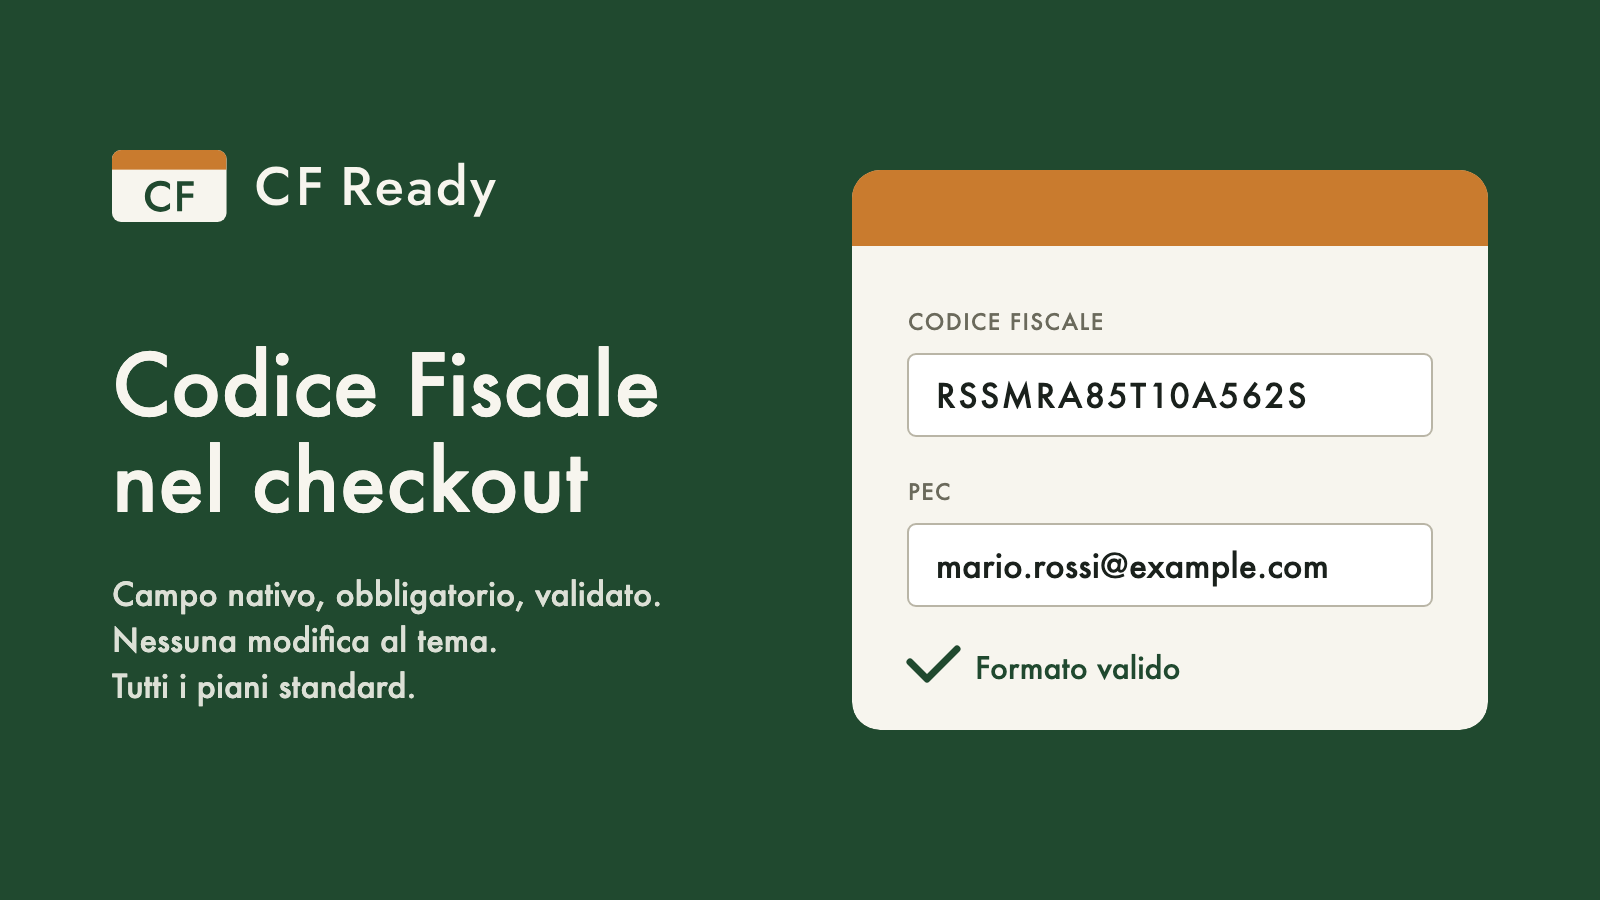
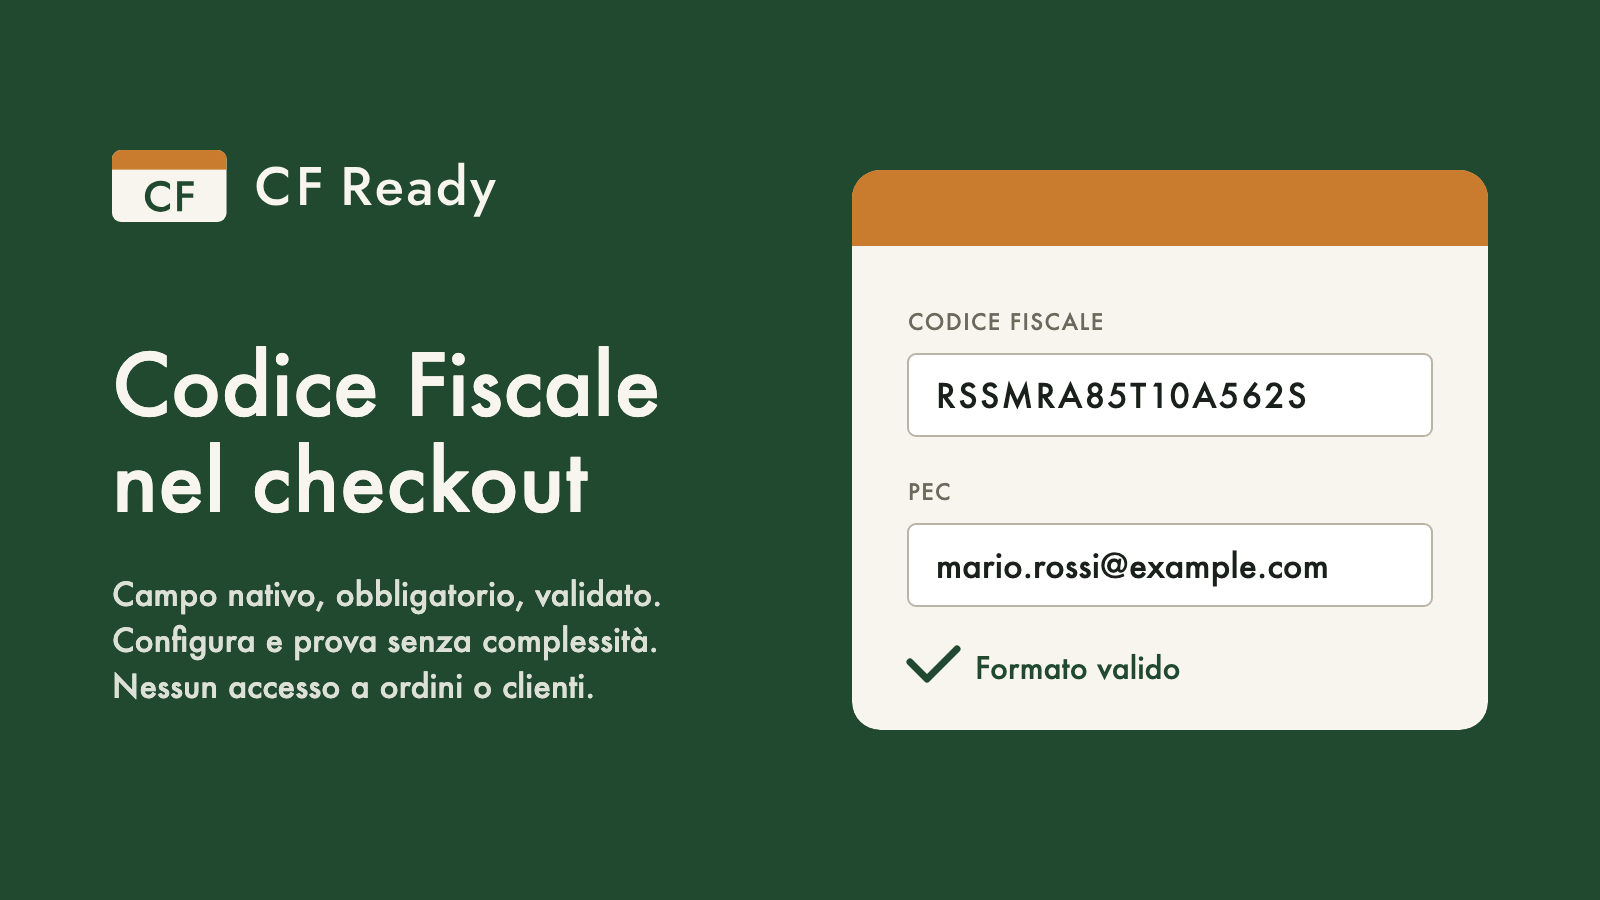
docs(listing): improve Italian and English listings (#374)

Changed region(s): [[0.0625, 0.6844, 0.4062, 0.7778]]

diff --git a/docs/listing/screenshots.md b/docs/listing/screenshots.md
@@ -5,7 +5,9 @@ del [brand](../brand/brand-foundation.md) e da §24.5 del
 [Master Plan](../plans/2026-07-28-CF-Ready-Master-Plan.md): qui non si
 ridiscutono, si applicano.
 
-**Chi li produce:** Codex, dal dev store `cf-ready-dev.myshopify.com`.
+**Chi li produce:** Codex, esclusivamente dall'app installata sul dev store
+`cf-ready-dev.myshopify.com`. Non si usano schermate di checkout o storefront,
+né del dev store né di altri negozi.
 La serie pubblicata in M9 è unica, con Admin e didascalie in italiano, e viene
 riutilizzata nelle listing italiana e inglese. Nella listing inglese gli alt
 text sono localizzati: è la scelta finale dell'owner del 23 agosto 2026. Una
@@ -18,8 +20,8 @@ dentro la stessa serie.
   `--cf-color-border-subtle`, ombra `--cf-shadow-frame` appena percettibile.
   Nessuna finestra di browser disegnata, nessuna barra del Mac, nessun mockup di
   laptop, nessuna prospettiva.
-- **Sfondo:** un solo colore pieno per tutta la serie. Panna per la maggior
-  parte, Verde bottiglia per **uno o due** screenshot chiave — qui: il 2 e il 5.
+- **Sfondo:** un solo colore pieno per ogni immagine. Panna per la maggior
+  parte, Verde bottiglia per **uno o due** screenshot chiave — qui: il 1 e il 2.
 - **Didascalia:** una frase, stessa posizione e stesso stile in tutti.
 - **Accento arancio:** al massimo un elemento per screenshot, e solo se indica
   davvero qualcosa. Mai unico veicolo dell'informazione: accompagna sempre la
@@ -28,8 +30,11 @@ dentro la stessa serie.
   cancellati, niente stati inventati. Cattura a 2× e ridimensionamento pari; se
   a dimensione di listing il testo non si legge, **ritaglia** l'area rilevante
   invece di rimpicciolire tutta la schermata.
-- **Stessa larghezza di cattura, stesso zoom, stesso tema dell'Admin, stessi
-  dati di esempio** in tutta la serie.
+- **Nessun testo troncato:** il ritaglio termina tra blocchi completi; non lascia
+  a metà frasi, etichette, campi o messaggi di errore.
+- **Stesso zoom, stesso tema dell'Admin, stessi dati di esempio** in tutta la
+  serie. La larghezza può aumentare solo quanto serve a chiudere interamente un
+  blocco di testo prima del ritaglio.
 - **Nessun marchio Shopify** dentro l'immagine, e nessun dato reale: usa i
   valori sintetici della [reviewer instructions §4](reviewer-instructions.md).
 
@@ -37,16 +42,15 @@ dentro la stessa serie.
 
 | # | Schermata | Stato da mostrare | Sfondo |
 | --- | --- | --- | --- |
-| 1 | Regole | Codice Fiscale su **Obbligatorio**, PEC su **Facoltativo**: si vede che le due regole sono indipendenti e che le modalità sono tre | Panna |
-| 2 | Home | Validation **attiva**, con lo stato commerciale visibile | Verde bottiglia |
-| 3 | Messaggi | I testi mostrati al cliente, con il selettore di lingua in vista | Panna |
-| 4 | Onboarding | La procedura guidata a metà percorso: mostra quanto poco c'è da configurare | Panna |
-| 5 | Checkout | Il campo Codice Fiscale con l'errore di validazione, **ritagliato** all'area del campo e del messaggio | Verde bottiglia |
+| 1 | Simulatore | Il campo Codice Fiscale con l'errore formale e lo stato **Checkout bloccato**, ritagliato all'anteprima interattiva della 1.1 | Verde bottiglia |
+| 2 | Regole | Codice Fiscale **obbligatorio** e PEC **facoltativa**, inquadrati sulle due schede indipendenti | Verde bottiglia |
+| 3 | Messaggi | Testi in italiano e inglese con la nuova anteprima affiancata della 1.1 | Panna |
+| 4 | Home | Controllo **attivo**, con stato delle regole, piano e accesso alla guida visibili | Panna |
+| 5 | Guida | FAQ e azioni di assistenza con diagnostica tecnica copiabile, in due ritagli affiancati e completi | Panna |
 
-Sul numero 5: è il checkout reale di Shopify, non una ricostruzione — fingere
-una UI di checkout diversa è vietato. Il ritaglio serve a due cose insieme:
-rendere leggibile il messaggio a dimensione di listing ed evitare che entrino
-nell'immagine marchi Shopify.
+Sul numero 1: è il simulatore reale incluso nell'app, non un checkout né una
+ricostruzione grafica. Il ritaglio rende leggibili stato e messaggio a dimensione
+di listing ed evita che entrino nell'immagine elementi dell'Admin Shopify.
 
 ## Didascalie
 
@@ -55,11 +59,11 @@ descrive ogni immagine con un alt text inglese coerente.
 
 | # | Didascalia visibile | Alt text inglese |
 | --- | --- | --- |
-| 1 | Tre modalità per ogni campo, indipendenti fra loro. | Rules page: Codice Fiscale required, PEC optional. |
-| 2 | Validazione attiva: una sola per store, sempre. | App Home with active validation and plan status. |
-| 3 | I messaggi al cliente, in italiano e in inglese. | Messages page with customer-facing text in Italian and English. |
-| 4 | Configurazione guidata, senza toccare il tema. | A guided setup step showing the available choices. |
-| 5 | Codice Fiscale sbagliato: l'ordine non passa. | Codice Fiscale field at checkout showing a format error. |
+| 1 | Vedi subito perché il checkout verrebbe bloccato. | In-app simulator with a formally invalid Codice Fiscale. |
+| 2 | Scegli regole separate per Codice Fiscale e PEC. | Separate controls for Codice Fiscale and PEC. |
+| 3 | Personalizza i messaggi in italiano e inglese. | Italian and English checkout message previews. |
+| 4 | Attiva il controllo solo quando sei pronto. | Home with active checkout control, rules and plan. |
+| 5 | Guida e diagnostica pronte quando serve assistenza. | FAQs, support actions and privacy-safe diagnostics. |
 
 ## Consegna
 
@@ -70,7 +74,8 @@ parte che deve restare coerente con il prodotto; i file vivono dove servono.
 
 Ne consegue che la prova della loro esistenza non è un file in Git ma la
 listing stessa. Il readback live del 23 agosto 2026 ha verificato feature media,
-cinque screenshot desktop e alt text nelle due lingue; la ricevuta è nel
+cinque screenshot desktop e alt text nelle due lingue; questa nuova serie li
+sostituisce con cinque schermate più focalizzate. La ricevuta storica è nel
 [`release-readiness-1.0`](../runbooks/release-readiness-1.0.md).
 
 ## Sito pubblico

diff --git a/docs/listing/listing-it.md b/docs/listing/listing-it.md
@@ -23,7 +23,7 @@ checkout.
 
 | Campo | Valore |
 | --- | --- |
-| Nome app | CF Ready - Codice Fiscale |
+| Nome app | CF Ready \| Codice Fiscale |
 | Nome breve in Admin | CF Ready |
 | Handle | `cf-ready` |
 | Categoria primaria | Gestione del negozio → Finanze → Imposte |
@@ -34,52 +34,52 @@ checkout.
 
 L'alt text della feature image è richiesto insieme all'immagine:
 
-> CF Ready - Codice Fiscale nel checkout
+> CF Ready | Codice Fiscale nel checkout
 
 Descrive quello che si vede, non quello che vorremmo far capire: un alt text che
 ripete lo slogan è inutile a chi non vede l'immagine.
 
 ## Sottotitolo della scheda app
 
-> Codice Fiscale e PEC obbligatori e validati nel checkout.
+> Codice Fiscale obbligatorio nel checkout, PEC se ti serve.
 
-**57/62 caratteri.**
+**58/62 caratteri.**
 
 ## Introduzione
 
-> Rende obbligatorio il Codice Fiscale nel checkout italiano e ne verifica la
-> correttezza formale.
+> Evita ordini senza un Codice Fiscale formalmente valido. Configuri tutto senza
+> complessità.
 
-**96/100 caratteri.**
+**91/100 caratteri.**
 
 ## Dettagli app
 
-> Shopify mostra i campi fiscali italiani nel checkout, ma non può renderli
-> obbligatori né controllarli. CF Ready lo fa: Codice Fiscale e PEC diventano
-> facoltativi o obbligatori, con verifica della correttezza formale prima che
-> l'ordine sia completato. Non aggiunge campi, non tocca il tema, non richiede
-> Plus. Se l'app non è disponibile il checkout resta aperto, e i clienti esteri
-> non sono mai bloccati. La validazione è formale, non anagrafica: non attesta
-> che un codice appartenga a chi lo scrive.
+> Evita ordini italiani con Codice Fiscale mancante o formalmente non valido.
+> Scegli separatamente se Codice Fiscale e PEC devono essere non gestiti,
+> facoltativi o obbligatori. CF Ready usa i campi nativi del checkout: configuri
+> le regole e le provi prima di attivarle, senza codice né Shopify Plus. I
+> controlli valgono solo per l’Italia. I dati fiscali non arrivano ai nostri
+> sistemi e, se l’app ha un errore, il checkout resta aperto. La verifica è
+> formale, non anagrafica.
 
-**499/500 caratteri.**
+**473/500 caratteri.**
 
 ## Punti in evidenza
 
-1. `Codice Fiscale obbligatorio e validato prima che l'ordine sia completato.`
-2. `PEC come regola indipendente: richiedila insieme o lasciala fuori.`
-3. `Nessuna modifica al tema: usa i campi che Shopify espone già per l'Italia.`
-4. `Clienti esteri esclusi: la regola vale solo con consegna italiana.`
-5. `Non blocca in caso di errore: il checkout resta sempre aperto.`
+1. `Evita ordini italiani senza un Codice Fiscale formalmente valido.`
+2. `Configura Codice Fiscale e PEC con regole separate.`
+3. `Prova regole e messaggi nel simulatore prima di attivarli.`
+4. `Funziona senza codice, modifiche al tema o Shopify Plus.`
+5. `I dati fiscali non arrivano ai nostri sistemi.`
 
 ## Ricerca e SEO
 
-- termini di ricerca: `Codice Fiscale`, `PEC`, `Checkout italiano`, `Campi fiscali`,
-  `Checkout`;
-- title tag: `CF Ready - Codice Fiscale obbligatorio nel checkout`;
-- meta description: `Rendi obbligatorio il Codice Fiscale nel checkout
-  italiano e verificane la correttezza formale, senza toccare il tema. PEC come
-  regola indipendente.`
+- termini di ricerca: `Codice Fiscale`, `PEC`, `Checkout`, `Checkout italiano`,
+  `CF obbligatorio`;
+- title tag: `CF Ready | Codice Fiscale obbligatorio nel checkout`;
+- meta description: `Codice Fiscale obbligatorio nel checkout italiano, senza
+  complessità. Regole indipendenti per CF e PEC, nessun dato fiscale nei nostri
+  sistemi.`
 
 ## Canali e limitazioni dichiarate
 
@@ -113,18 +113,18 @@ delle app di Shopify.
 
 Funzionalità mostrate nel piano mensile/annuale:
 
-- `€2,99/mese o €29,90/anno`
-- `Codice Fiscale e PEC`
-- `Validazione nel checkout`
-- `Nessuna modifica al tema`
-- `Tutti gli aggiornamenti inclusi`
+- `Addebito: €2,99/mese o €29,90/anno`
+- `Prova completa di 14 giorni`
+- `Nessun addebito automatico dopo la prova`
+- `Stesse funzioni in tutte le modalità`
+- `Codice Fiscale e PEC nel checkout`
 
 Funzionalità mostrate nel piano a pagamento unico:
 
+- `Addebito: €89,90 per un singolo store`
 - `Un pagamento, nessun rinnovo`
-- `€89,90 per un singolo store`
-- `Codice Fiscale e PEC`
-- `Validazione nel checkout`
+- `Stesse funzioni dell'abbonamento`
+- `Codice Fiscale e PEC nel checkout`
 - `Tutti gli aggiornamenti inclusi`
 
 **La vetrina della listing è in dollari e l'addebito è in euro.** L'editor dei

diff --git a/docs/listing/listing-en.md b/docs/listing/listing-en.md
@@ -22,7 +22,7 @@ for amounts, `extensions/cf-ready-validation/` for checkout behaviour.
 
 | Field | Value |
 | --- | --- |
-| App name | CF Ready - Codice Fiscale |
+| App name | CF Ready \| Codice Fiscale |
 | Short name in Admin | CF Ready |
 | Handle | `cf-ready` |
 | Primary category | Store management → Finances → Taxes |
@@ -33,47 +33,46 @@ for amounts, `extensions/cf-ready-validation/` for checkout behaviour.
 
 The feature image needs alt text alongside it:
 
-> CF Ready - Codice Fiscale (Italian tax code) at checkout
+> CF Ready | Codice Fiscale (Italian tax code) at checkout
 
 It describes what is visible, not what we would like the reader to conclude: alt
 text that repeats the tagline is useless to someone who cannot see the image.
 
 ## App card subtitle
 
-> Codice Fiscale (Italian tax code) and PEC validation.
+> Required Codice Fiscale at checkout, add PEC when needed.
 
-**53/62 characters.**
+**57/62 characters.**
 
 ## Introduction
 
-> Makes Codice Fiscale, the Italian tax code, required at checkout and formally
-> validates it.
+> Prevent orders without a formally valid Codice Fiscale. Set everything up
+> without complexity.
 
-**91/100 characters.**
+**93/100 characters.**
 
 ## App details
 
-> Shopify shows Italian tax fields at checkout but cannot make them required or
-> validate them. CF Ready does: Codice Fiscale, the Italian tax code, and PEC can
-> be optional or required, with formal validation before order completion. It
-> adds no fields, changes no theme, and does not require Plus. If the app is
-> unavailable, checkout stays open, and foreign customers are never blocked.
-> Validation is formal, not identity-based: it does not certify that a tax code
-> belongs to the person entering it.
+> Prevent Italian orders with missing or formally invalid Codice Fiscale. Choose
+> separately whether Codice Fiscale and PEC are unmanaged, optional, or required.
+> CF Ready uses Shopify's native checkout fields: configure and preview rules
+> before activation, with no code or Shopify Plus. Checks apply only to Italy.
+> Tax data never reaches our systems and, if the app fails, checkout stays open.
+> Validation is formal, not identity-based.
 
-**496/500 characters.**
+**432/500 characters.**
 
 ## Key features
 
-1. `Codice Fiscale (Italian tax code) required and formally validated at checkout.`
-2. `PEC as an independent rule: require it with Codice Fiscale or leave it out.`
-3. `No theme changes: uses the tax fields Shopify already provides for Italy.`
-4. `Foreign customers excluded: the rule applies only to Italian deliveries.`
-5. `Never blocks on errors: checkout always stays open.`
+1. `Prevent Italian orders without a formally valid Codice Fiscale.`
+2. `Configure Codice Fiscale and PEC with separate rules.`
+3. `Preview rules and messages in the simulator before activation.`
+4. `Works with no code, theme changes, or Shopify Plus.`
+5. `Tax data never reaches our systems.`
 
 ## Search terms
 
-`Codice Fiscale`, `PEC`, `Invoice`, `Tax`, `Checkout`.
+`Codice Fiscale`, `PEC`, `Checkout`, `Italian checkout`, `Required tax code`.
 
 The web-search title and meta description are shared with the primary listing
 and can only be edited there.
@@ -109,19 +108,19 @@ acquired. All payments go through Shopify's app billing.
 
 Features shown for the monthly/annual plan:
 
-- `€2.99/month or €29.90/year`
-- `Codice Fiscale and PEC`
-- `Checkout validation`
-- `No theme changes`
-- `All updates included`
+- `Charge: €2.99/mo or €29.90/year`
+- `Full 14-day free trial`
+- `No automatic charge after the trial`
+- `Same features with every payment option`
+- `Codice Fiscale and PEC at checkout`
 
 Features shown for the one-time plan:
 
+- `Charge: €89.90 for one store`
 - `One payment, no renewal`
-- `€89.90 for one store`
-- `Checkout validation`
+- `Same features as the subscription`
+- `Codice Fiscale and PEC at checkout`
 - `All updates included`
-- `Codice Fiscale and PEC`
 
 **The listing shows USD while the charge is in EUR.** The Partner Dashboard plan
 editor has no currency field, so the amounts are entered as a USD equivalent,
